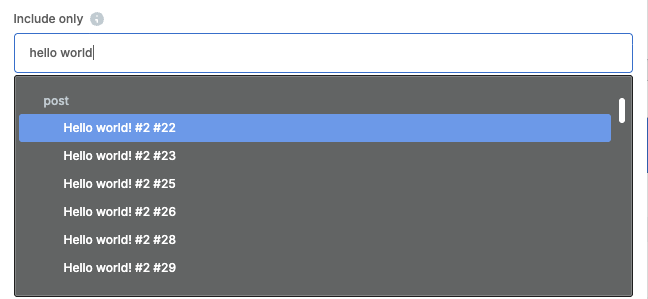
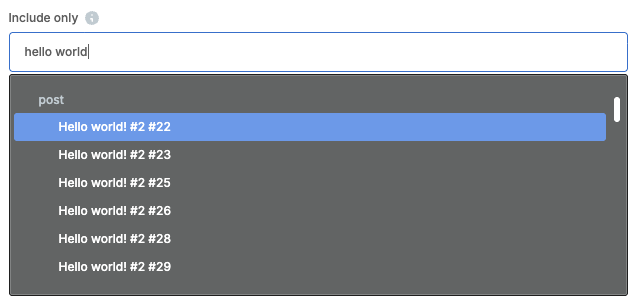
fix: #3115 dark mode and custom_markup fixes

diff --git a/src/css/custom.css b/src/css/custom.css
@@ -831,6 +831,21 @@ tr:last-child td {
   border-bottom: none !important;
 }
 
+[data-theme='dark'] table {
+  border-color: var(--ifm-toc-border-color);
+}
+
+[data-theme='dark'] thead,
+[data-theme='dark'] th {
+  background: var(--ifm-background-surface-color) !important;
+}
+
+[data-theme='dark'] th,
+[data-theme='dark'] td {
+  border-bottom-color: var(--ifm-toc-border-color) !important;
+  border-right-color: var(--ifm-toc-border-color) !important;
+}
+
 /* Fix spacing in doc pages */
 .theme-doc-markdown {
   margin-top: 0 !important;
@@ -1306,6 +1321,6 @@ article[class*="docCardListItem"] .card p,
 
   .navbar {
     padding: 0 1rem !important;
-    background: white !important;
+    background: var(--ifm-background-surface-color) !important;
   }
 }

diff --git a/devs/inner-api/vc_map.md b/devs/inner-api/vc_map.md
@@ -31,12 +31,71 @@ To add your shortcode to the WPBakery Page Builder content elements list, *vc_ma
 | front_enqueue_js | String\|Array | Absolute url to javascript file (useful for storing your custom backbone.js views), this js will be loaded in the js_composer frontend edit mode (it allows you to add more functionality to your shortcode in js_composer frontend edit mode). *(Available from WPBakery Page Builder 4.2.2)* |
 | front_enqueue_css | String\|Array | Absolute url to css file if you need to load custom css file in the frontend editing mode. *(Available from WPBakery Page Builder 4.2.2)* |
 | icon | String | URL or CSS class with icon image. More info [here](/devs/developer-tutorials/set-content-element-icon) |
-| custom_markup | String | Custom html markup for representing shortcode in visual composer editor |
+| custom_markup | String | HTML template used to render the element in the **backend editor**. Supports Mustache-style placeholders. See [custom_markup template](#custom_markup-template) below |
 | js_view | String | Set custom backbone.js view controller for this content element |
 | html_template | String | Path to shortcode template. This is useful if you want to reassign path of existing content elements through your plugin. Another way to [change html markup](/devs/developer-tutorials/change-shortcodes-html-output) |
 | deprecated | String | Enter version number from which content element will be deprecated. It will be moved to the "Deprecated" tab in "Add element" window and notification message will be shown on elements edit page. To hide element from "Add element" all together use 'content_element'=>false *(Available from WPBakery Page Builder 4.5)* |
 | content_element | Boolean | If set to false, content element will be hidden from "Add element" window. It is handy to use this param in pair with 'deprecated' param *(Available from WPBakery Page Builder 4.5)* |
 | params | Array | List of shortcode attributes. Array which holds your shortcode params, these params will be editable in shortcode settings page |
+
+## custom_markup template
+
+`custom_markup` defines the HTML used to render an element inside the backend editor (the admin "block" view). When omitted, WPBakery falls back to a generic title + parameter holders block. The string is a Mustache-style template rendered against the element's attributes and inner content.
+
+### Placeholders
+
+| Placeholder | Description |
+|---|---|
+| `{{ params.<name> }}` | Escaped value of the `<name>` param. Use for attributes and text. |
+| `{{{ params.<name> }}}` | **Unescaped** value of the `<name>` param. Use only for trusted HTML. |
+| `{{ title }}` | Backend title bar generated by WPBakery for the element. |
+| `{{ content }}` | Inner content (for container elements with `is_container => true`). |
+| `{{ model_id }}` | Editor model id of the current element instance. |
+| `{{ container-class }}` | Class hook injected by WPBakery for container drop zones. |
+
+### Basic example
+
+```php
+vc_map([
+    "name"          => __("Notice", "domain"),
+    "base"          => "my_notice",
+    "category"      => __("Content", "domain"),
+    "params"        => [
+        [
+            "type"       => "textfield",
+            "heading"    => __("Title", "domain"),
+            "param_name" => "title",
+        ],
+        [
+            "type"       => "dropdown",
+            "heading"    => __("Style", "domain"),
+            "param_name" => "style",
+            "value"      => [ "Info" => "info", "Warning" => "warning" ],
+        ],
+    ],
+    "custom_markup" => '<div class="my-notice my-notice-{{ params.style }}"><strong>{{ params.title }}</strong></div>',
+]);
+```
+
+### Container example
+
+Container elements (`is_container => true` or `as_parent`) typically render `{{ content }}` so children appear inside the markup:
+
+```php
+vc_map([
+    "name"          => __("My Wrapper", "domain"),
+    "base"          => "my_wrapper",
+    "category"      => __("Content", "domain"),
+    "is_container"  => true,
+    "as_parent"     => [ "except" => "vc_row" ],
+    "js_view"       => "VcColumnView",
+    "params"        => [],
+    "custom_markup" => '
+<div class="my-wrapper {{container-class}}" data-vc-target-model-id="{{ model_id }}">
+    {{ content }}
+</div>',
+]);
+```
 
 ## params Array
 

diff --git a/devs/params/overview.md b/devs/params/overview.md
@@ -203,11 +203,6 @@ This section provides detailed documentation for every parameter type available 
     <p>Element ID field for custom anchors.</p>
   </a>
 
-  <a href="/devs/params/custom_markup" className="topic-card">
-    <h3>Custom markup</h3>
-    <p>Custom HTML markup injection.</p>
-  </a>
-
   <a href="/devs/params/gutenberg" className="topic-card">
     <h3>Gutenberg</h3>
     <p>Gutenberg block integration support.</p>
@@ -265,6 +260,7 @@ All parameter types support these common options:
 - `save_always` - Force saving the param value to the shortcode even if it equals the default or is empty
 - `callback` - JavaScript function callback attached to the window object (e.g., `['after_add' => 'vcChartParamAfterAddCallback']`)
 - `settings` - Array of type-specific configuration options (varies per param type, see individual param docs)
+- `custom_markup` - HTML template used to render the element in the backend editor. See [vc_map() → custom_markup](/devs/inner-api/vc_map#custom_markup-template)
 
 ## Next steps
 
